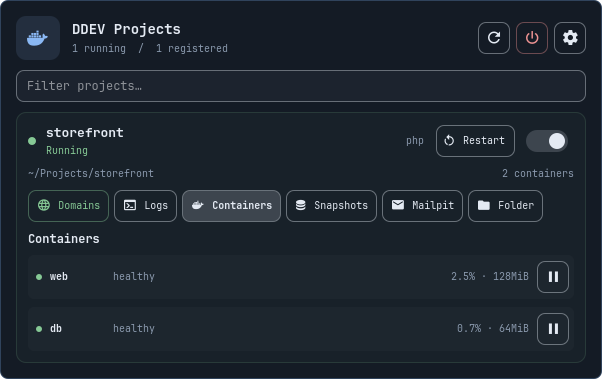
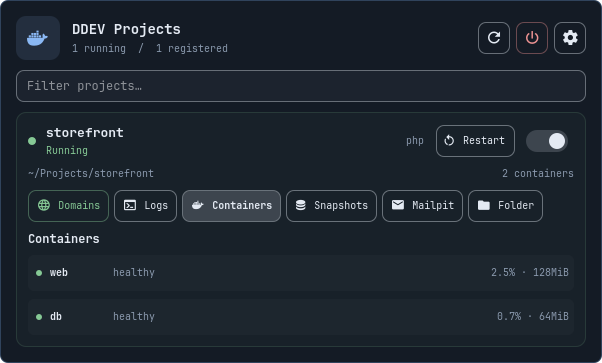
Remove per-container pause controls and commands

diff --git a/Panel.qml b/Panel.qml
@@ -155,6 +155,7 @@ Panel {
         return job ? Math.max(0, Math.floor((clockNow - job.startedAt) / 1000)) : 0
     }
     function canRun(action, name) {
+        if (["poweroff", "start", "stop", "restart", "snapshot", "snapshots", "restore", "domains", "browse", "browse-all", "mailpit", "folder"].indexOf(action) < 0) return false
         if (action === "poweroff") return !busy
         if (projectBusy(name)) return false
         if (action === "restart") return projects.some(p => p.name === name && p.status === "running") && !containersFor(name).some(c => c.state === "paused")
@@ -180,7 +181,7 @@ Panel {
     readonly property color success: "#86c995"
     readonly property color progress: "#e4b76c"
     readonly property color muted: Commons.Color.muted
-    function actionLabelFor(action) { return ({poweroff: "Powering off DDEV", start: "Starting", stop: "Stopping", restart: "Restarting", pause: "Pausing container", resume: "Resuming container", snapshot: "Creating snapshot", restore: "Restoring database", snapshots: "Loading snapshots", domains: "Loading project domains", "browse-all": "Opening project domains", browse: "Opening browser", mailpit: "Opening Mailpit", folder: "Opening folder"})[action] || "Working" }
+    function actionLabelFor(action) { return ({poweroff: "Powering off DDEV", start: "Starting", stop: "Stopping", restart: "Restarting", snapshot: "Creating snapshot", restore: "Restoring database", snapshots: "Loading snapshots", domains: "Loading project domains", "browse-all": "Opening project domains", browse: "Opening browser", mailpit: "Opening Mailpit", folder: "Opening folder"})[action] || "Working" }
     function persistRefresh(value) {
         refreshSeconds = value
         if (!bar || !bar.shell || typeof bar.shell.updateEntryInline !== "function") return
@@ -636,7 +637,7 @@ Panel {
                                     anchors.verticalCenter: parent.verticalCenter
                                     iconText: ""
                                     text: "Restart"
-                                    tooltipText: projectRow.hasPaused ? "Resume containers before restarting" : projectRow.running ? "Restart project" : "Start the project before restarting"
+                                    tooltipText: projectRow.hasPaused ? "Restart is unavailable while a container is paused" : projectRow.running ? "Restart project" : "Start the project before restarting"
                                     enabled: !projectRow.busy && projectRow.running && !projectRow.hasPaused
                                     onClicked: root.execute("restart", projectRow.modelData.name, "")
                                 }
@@ -769,9 +770,10 @@ Panel {
                                     model: projectRow.serviceContainers
                                     Rectangle {
                                         id: serviceRow
+                                        objectName: "containerOverview-" + modelData.id
                                         required property var modelData
                                         width: parent.width
-                                        implicitHeight: Style.space(44)
+                                        implicitHeight: Style.space(36)
                                         radius: Style.space(6)
                                         color: Util.alpha(root.foreground, 0.025)
                                         RowLayout {
@@ -789,13 +791,7 @@ Panel {
                                                     text: serviceRow.modelData.stats ? "CPU " + serviceRow.modelData.stats.cpu + " · RAM " + serviceRow.modelData.stats.memory + "\nNetwork " + serviceRow.modelData.stats.network + " · Disk " + serviceRow.modelData.stats.disk + " · " + serviceRow.modelData.stats.pids + " PIDs" : ""
                                                 }
                                             }
-                                            IconAction {
-                                                objectName: "pauseContainer-" + serviceRow.modelData.id
-                                                iconText: serviceRow.modelData.state === "paused" ? "" : ""
-                                                tooltipText: serviceRow.modelData.state === "paused" ? "Resume container" : "Pause container"
-                                                enabled: !projectRow.busy && (serviceRow.modelData.state === "running" || serviceRow.modelData.state === "paused")
-                                                onClicked: root.execute(serviceRow.modelData.state === "paused" ? "resume" : "pause", projectRow.modelData.name, serviceRow.modelData.id)
-                                            }
+
                                         }
                                     }
                                 }

diff --git a/tests/features.qml b/tests/features.qml
@@ -64,7 +64,7 @@ ShellRoot {
             root.flushAlerts()
             test.check(root.testAlerts.length === 4, "PROJECT_ALERTS_DEDUPLICATED_AND_SCOPED")
             root.selectLog("demo")
-            test.check(root.execute("pause", "demo", test.cid), "PAUSE_ACCEPTED_WITH_PROJECT_LOG_STREAM_ACTIVE")
+            test.check(root.execute("folder", "demo", ""), "PROJECT_ACTION_ACCEPTED_WITH_LOG_STREAM_ACTIVE")
         }
     }
     Timer {
@@ -76,7 +76,7 @@ ShellRoot {
             root.setLogLive("demo", false)
             root.applyInventory(test.inventory("paused", "healthy"), true)
             root.flushAlerts()
-            test.check(root.testAlerts.length === 4, "PAUSE_IS_NOT_A_STOP_ALERT")
+            test.check(root.testAlerts.length === 4, "EXTERNAL_SUSPENSION_IS_NOT_A_STOP_ALERT")
             test.check(!root.canRun("restart", "demo"), "RESTART_BLOCKED_WHILE_PAUSED")
             root.updateLog("demo", {expanded: true})
         }
@@ -85,22 +85,21 @@ ShellRoot {
         interval: 1500; running: true
         onTriggered: {
             var root = plugin.item
-            var pauseButton = root.testFind("pauseContainer-" + test.cid)
-            test.check(!!pauseButton && pauseButton.tooltipText === "Resume container" && pauseButton.enabled, "PAUSED_CONTAINER_SHOWS_RESUME")
-            test.check(pauseButton.parent.parent.implicitHeight <= Style.space(48), "CONTAINER_OVERVIEW_IS_COMPACT")
+            test.check(!root.testFind("pauseContainer-" + test.cid), "NO_PER_CONTAINER_MUTATION_CONTROL")
+            test.check(!root.canRun("pause", "demo") && !root.canRun("resume", "demo"), "REMOVED_ACTIONS_REJECTED_BY_UI")
+            test.check(root.testFind("containerOverview-" + test.cid).implicitHeight <= Style.space(40), "READ_ONLY_CONTAINER_OVERVIEW_IS_COMPACT")
             test.check(root.testFind("projectLogs-demo").text.indexOf("[db]") >= 0, "INLINE_PROJECT_LOG_VIEWER_RENDERED")
             test.check(!root.logJobs.demo && !root.logFor("demo").error, "STOPPING_LIVE_LOGS_CLEANS_UP_READER")
-            pauseButton.clicked()
         }
     }
     Timer {
         interval: 2300; running: true
         onTriggered: {
             var root = plugin.item
-            test.check(!root.busy && root.outputFor("demo").action === "resume", "RESUME_COMMAND_COMPLETED")
+            test.check(!root.busy && root.outputFor("demo").action === "folder", "PROJECT_ACTION_COMPLETED")
             root.applyInventory(test.inventory("running", "healthy"), true)
             root.flushAlerts()
-            test.check(root.testAlerts.length === 4, "RESUME_IS_NOT_A_START_ALERT")
+            test.check(root.testAlerts.length === 4, "EXTERNAL_RECOVERY_IS_NOT_A_START_ALERT")
             root.applyInventory([], true)
             root.flushAlerts()
             test.check(root.testAlerts.length === 5 && root.testAlerts[4].kind === "stopped", "MISSING_CONTAINERS_ONE_PROJECT_STOP_ALERT")

diff --git a/test_containers.py b/test_containers.py
@@ -65,7 +65,7 @@ class InventoryTests(unittest.TestCase):
         self.assertEqual([row['id'] for row in result], [CID])
 
 
-class ContainerActionsTests(unittest.TestCase):
+class ProjectLogTests(unittest.TestCase):
     def setUp(self):
         self.temp = tempfile.TemporaryDirectory()
         self.addCleanup(self.temp.cleanup)
@@ -77,35 +77,13 @@ class ContainerActionsTests(unittest.TestCase):
         project_patch.start()
         self.addCleanup(project_patch.stop)
 
-    def test_pause_validated_running_container(self):
-        with patch.object(backend, 'containers', return_value=([container()], '')), patch.object(backend, 'run', return_value=completed('paused')) as run:
-            self.assertTrue(backend.main(['pause', 'demo', CID])['ok'])
-            self.assertEqual(run.call_args.args[0], ['docker', 'pause', CID])
-
-    def test_resume_only_paused_container(self):
-        with patch.object(backend, 'containers', return_value=([container(state='paused')], '')), patch.object(backend, 'run', return_value=completed('resumed')) as run:
-            self.assertTrue(backend.main(['resume', 'demo', CID])['ok'])
-            self.assertEqual(run.call_args.args[0], ['docker', 'unpause', CID])
-
-    def test_wrong_project_container_is_rejected_without_mutation(self):
-        with patch.object(backend, 'containers', return_value=([container(project='other')], '')), patch.object(backend, 'run') as run:
-            for action in ('pause', 'resume', 'logs'):
-                with self.assertRaises(ValueError):
-                    backend.main([action, 'demo', CID])
-            run.assert_not_called()
-
-    def test_invalid_container_id_cannot_be_a_docker_flag(self):
+    def test_removed_container_actions_are_rejected_without_subprocesses(self):
         with patch.object(backend, 'run') as run:
-            with self.assertRaises(ValueError):
-                backend.main(['pause', 'demo', '--all'])
-            run.assert_not_called()
-
-    def test_invalid_pause_and_resume_states_are_rejected(self):
-        for action, state in (('pause', 'paused'), ('pause', 'exited'), ('resume', 'running'), ('resume', 'exited')):
-            with self.subTest(action=action, state=state), patch.object(backend, 'containers', return_value=([container(state=state)], '')), patch.object(backend, 'run') as run:
-                with self.assertRaises(ValueError):
+            for action in ('pause', 'resume'):
+                with self.assertRaisesRegex(ValueError, 'Unsupported action'):
                     backend.main([action, 'demo', CID])
-                run.assert_not_called()
+            run.assert_not_called()
+            backend.projects.assert_not_called()
 
     def test_project_logs_merge_services_in_timestamp_order(self):
         web = container()

diff --git a/backend.py b/backend.py
@@ -174,17 +174,6 @@ def containers(entries, include_stats=False):
     return sorted(result, key=lambda row: (row['project'], row['service'])), stats_warning
 
 
-def selected_container(entries, project, container_id):
-    if not re.fullmatch(r'[a-f0-9]{12,64}', container_id):
-        raise ValueError('Choose a container from this project')
-    inventory, _ = containers(entries)
-    container = next((item for item in inventory
-                      if item['project'] == project and item['id'] == container_id), None)
-    if not container:
-        raise ValueError('Container is no longer part of this registered DDEV project; refresh the list')
-    return container
-
-
 def container_event(event):
     """Reduce Docker events to project/service state, without exporting labels."""
     if event.get('Type', 'container') != 'container':
@@ -387,6 +376,8 @@ def browse_domains(project, selected=None, all_domains=False):
 
 def main(args):
     action = args[0] if args else 'list'
+    if action not in {'list', 'monitor', 'watch', 'poweroff', 'logs', 'logs-follow', 'domains', 'browse', 'browse-all', 'snapshots', 'snapshot', 'restore', 'mailpit', 'folder', 'start', 'stop', 'restart'}:
+        raise ValueError('Unsupported action')
     if action == 'poweroff':
         proc = run(['ddev', 'poweroff'], timeout=1800, stream=True)
         output = (proc.stdout + '\n' + proc.stderr).strip()
@@ -418,17 +409,6 @@ def main(args):
         if len(args) != 2:
             raise ValueError('Project logs do not take a container ID')
         return follow_project_logs(entries, project) if action == 'logs-follow' else project_logs(entries, project)
-    if action in ('pause', 'resume'):
-        if len(args) != 3:
-            raise ValueError('Choose a container from this project')
-        container = selected_container(entries, project['name'], args[2])
-        if action == 'pause' and container['state'] != 'running':
-            raise ValueError('Only a running container can be paused')
-        if action == 'resume' and container['state'] != 'paused':
-            raise ValueError('Only a paused container can be resumed')
-        command = 'pause' if action == 'pause' else 'unpause'
-        proc = run(['docker', command, container['id']], timeout=30, stream=True)
-        return {'ok': proc.returncode == 0, 'message': (proc.stdout + proc.stderr).strip() or 'Done'}
     if action == 'domains':
         return {'ok': True, 'domains': project_domains(project)}
     if action in ('browse', 'browse-all'):

diff --git a/README.md b/README.md
@@ -11,7 +11,7 @@ Native Quickshell taskbar plugin. Click the Docker icon and running/registered c
 
 ![Project startup progress with a spinner and inline console output](docs/previews/console.png)
 
-![Compact container overview with health, live statistics, and pause controls](docs/previews/applications.png)
+![Read-only container overview with health and live statistics](docs/previews/applications.png)
 
 ![Combined live project logs with service prefixes](docs/previews/logs.png)
 
@@ -26,7 +26,6 @@ Previews render the actual plugin interface with fictional projects, paths, snap
 - Project actions share one left-aligned row: Domains, Logs, Containers, Snapshots, Mailpit, and Folder, all with labels.
 - Filter by project name or path.
 - Compact container overview with health, CPU and memory; additional metrics on hover.
-- Pause/resume individual container processes, with controls scoped to registered DDEV projects.
 - View combined live project logs inline, with service labels and no need to switch containers.
 - Receive one desktop notification per project transition: started, restarted, stopped, unhealthy, or recovered.
 - Show local database snapshots with timestamps and sizes; create automatically named or custom named snapshots.
@@ -70,13 +69,11 @@ For manual installs, pull the repository and run `python3 install.py` again.
 **Domains** lists the concrete site URLs reported by `ddev describe -j`, including configured `additional_hostnames` and `additional_fqdns` ([DDEV reference](https://docs.ddev.com/en/stable/users/extend/additional-hostnames/)). Open an individual domain or choose **Open all** to launch one browser tab per domain. The configured primary URL is listed first; other domains prefer HTTPS. HTTP/HTTPS duplicates and incidental loopback endpoints are omitted. Wildcard hosts are not opened literally. Opening a link rechecks it against DDEV's current domain list; it does not accept arbitrary URLs. Refresh or close/reopen the section after changing project domains.
 
 
-**Containers** expands a compact overview of the services belonging to a DDEV project. Each row shows the service, status/health, CPU and memory, with a small pause/resume control. Hover over the metrics for the memory limit, network I/O, disk I/O, and process count. Statistics update about every three seconds while the overview is open. Paused and stopped containers show unavailable statistics rather than misleading zero values.
-
-Use **Pause** or **Resume** on a service to freeze/unfreeze its processes with Docker. This preserves the container and its memory; it is different from stopping a project. Restart is disabled while any service is paused. Other projects can still run operations concurrently.
+**Containers** expands a compact overview of the services belonging to a DDEV project. Each read-only row shows the service, status/health, CPU and memory. Start, Stop, and Restart remain project-level controls. Hover over the metrics for the memory limit, network I/O, disk I/O, and process count. Statistics update about every three seconds while the overview is open. Paused and stopped containers show unavailable statistics rather than misleading zero values.
 
 **Logs** opens one combined project log. Clicking it again closes the viewer and stops its followers. Reopening preserves the output, expansion, and Live setting; rapid toggles reuse or restart the reader without creating duplicate followers. **Live** follows all discovered DDEV service feeds using `ddev logs --follow --service=<service> --tail=200 --time`, merging their stdout/stderr with `[web]`, `[db]`, and other service prefixes. A plain `ddev logs -f` follows only the web service by default ([DDEV reference](https://docs.ddev.com/en/stable/users/usage/commands/#logs)). Recent output is bounded to 24,000 characters; the non-live snapshot merges the latest 200 lines in timestamp order. Use **Show all logs** to expand within the panel's single scroll area. Following logs does not lock project actions. Turning Live off, closing the viewer, or closing the panel stops its follower processes; reopening or container recreation reconnects the stream.
 
-**Project alerts** in settings toggles desktop notifications. Container events are coalesced after a two-second quiet period into one project-level state, so starting or stopping web and database containers produces one project notification. Plugin-managed lifecycle operations suppress intermediate alerts until the operation finishes and the project is ready. Recovery is announced when all affected services are healthy again. Initial discovery is silent; repeated project states are deduplicated across displays. Pause/resume does not produce stop/start alerts. Events reconnect automatically when Docker returns; background inventory checks provide a fallback. Idle checks run about every ten seconds; live statistics are collected only while Containers is open. Monitoring covers containers labelled `com.ddev.site-name` for registered projects; shared DDEV infrastructure and services that omit DDEV labels are excluded.
+**Project alerts** in settings toggles desktop notifications. Container events are coalesced after a two-second quiet period into one project-level state, so starting or stopping web and database containers produces one project notification. Plugin-managed lifecycle operations suppress intermediate alerts until the operation finishes and the project is ready. Recovery is announced when all affected services are healthy again. Initial discovery is silent; repeated project states are deduplicated across displays. Externally suspended services do not produce stop/start alerts. Events reconnect automatically when Docker returns; background inventory checks provide a fallback. Idle checks run about every ten seconds; live statistics are collected only while Containers is open. Monitoring covers containers labelled `com.ddev.site-name` for registered projects; shared DDEV infrastructure and services that omit DDEV labels are excluded.
 
 Click Snapshots on a project to expand its database controls directly inside that project’s card. Create accepts an optional name using letters, numbers, dots, underscores, and dashes. Snapshot discovery supports `.gz`, `.zst`, `.mbstream`, and `.xbstream` files, including symlinked `.ddev` directories. The list shows snapshots in the selected project's `.ddev/db_snapshots`; snapshots in other Git worktrees are not included.
 
@@ -110,7 +107,7 @@ For a manual installation, remove the `ianzano.ddev` entry from the bar layout i
 
 Backend tests verify output arrives before a command finishes, merged stderr, Unicode, command exit codes, streaming timeouts, safe stop arguments, command failures, invalid names, unregistered projects, restore path validation, symlinked project config, and unavailable Docker status. The QML component was loaded using the installed Quickshell runtime. No live start/stop, snapshot creation, or database restore is needed for these checks.
 
-Container tests verify Docker label scoping, pause/resume state guards, bounded logs, stats failures, and safe event parsing. Inline UI checks with simulated projects verify log viewing, pause/resume, alert transitions and deduplication, plus card ownership for snapshots and console output, live streaming, six-line previews, full expansion, and separate logs across projects.
+Container tests verify Docker label scoping, bounded logs, stats failures, and safe event parsing. Inline UI checks with simulated projects verify read-only container status, log viewing, alert transitions and deduplication, plus card ownership for snapshots and console output, live streaming, six-line previews, full expansion, and separate logs across projects.
 
 ## Local data
 
